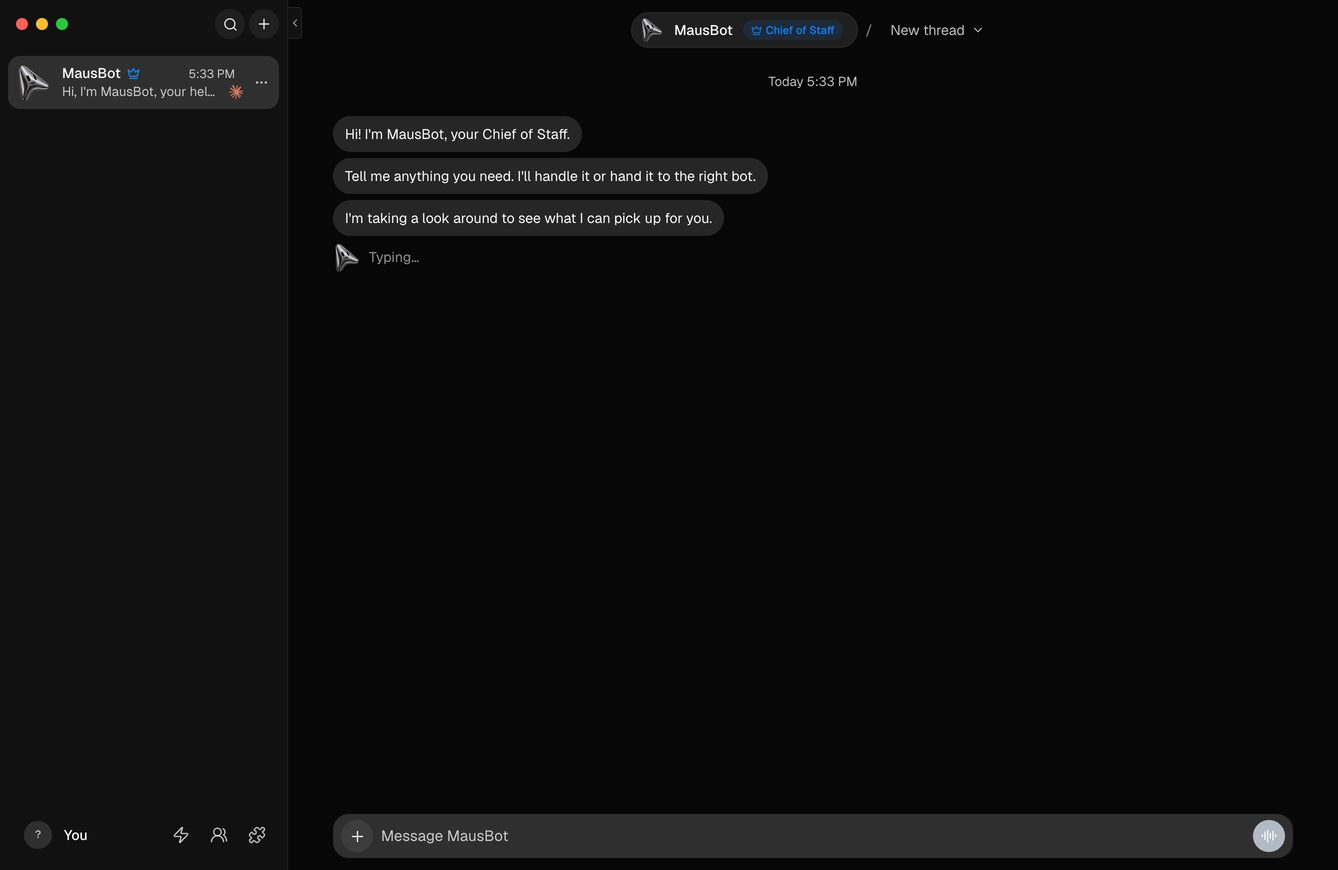
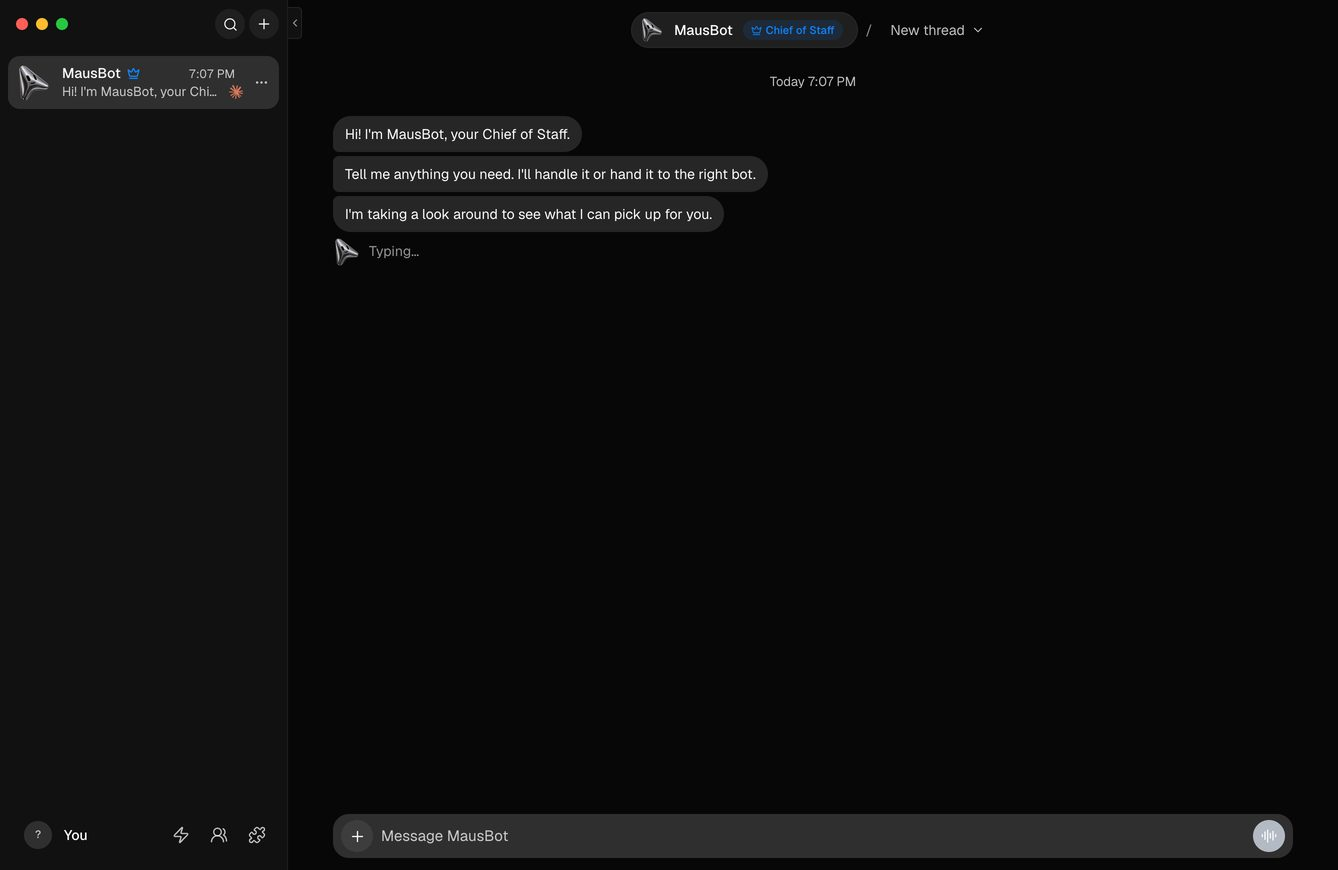
Onboarding: verification doc for two screens, shared Simple bubble, a calmer title
- docs/verification/onboarding.md describes the two-screen first run and cites
  the tests that cover it now (the deleted beat tests are gone from it).
- MausBot's intro bubbles use the chat's own Simple bubble (chat-bubble.ts:
  shape, width and joined corners) instead of their own values.
- The Meet title is 28px light, matching the size and weight of the design.

Changed region(s): [[0.2451, 0.1552, 0.5822, 0.3103], [0.5822, 0.0931, 0.6435, 0.1241], [0.1226, 0.0931, 0.1532, 0.1241]]

diff --git a/src/components/HelperIntro.tsx b/src/components/HelperIntro.tsx
@@ -9,6 +9,7 @@ import { detectSetupWithin, localSetupImport, setupImportApi } from "@/lib/setup
 import type { LocaleKey } from "@/locales";
 import { api, useStore, type Bot, type InstanceInfo, type Message } from "@/state/store";
 import { BotAvatar } from "./Avatar";
+import { joinedCorners, SIMPLE_BOT_BUBBLE, SIMPLE_BUBBLE_MAX } from "./chat-bubble";
 import { loadAppCards } from "./bot-settings/useBotApps";
 import { engineReady } from "./EngineLibrary";
 import { HelperSetup } from "./HelperSetup";
@@ -19,10 +20,8 @@ export const HELPER_ASK_KEYS: readonly LocaleKey[] = [
   "helperIntro.ask.overview", "helperIntro.ask.inbox", "helperIntro.ask.routine", "helperIntro.ask.howto",
 ];
 
-/** The bubble a bot's own words get in the chat: Simple's calmer one, or Advanced's. */
-const BUBBLE = "w-fit max-w-[min(var(--chat-bubble-max),var(--chat-bubble-pct))] bg-card text-ink";
-const SIMPLE_BUBBLE = "rounded-[18px] px-3 py-[7px] text-[14px] leading-[22px]";
-const ADVANCED_BUBBLE = "rounded-2xl px-4 py-2.5 text-[15px] leading-relaxed";
+/** Advanced mode's bot bubble; Simple's is the chat's own (chat-bubble.ts). */
+const ADVANCED_BUBBLE = "max-w-[min(var(--chat-bubble-max),var(--chat-bubble-pct))] rounded-2xl bg-card px-4 py-2.5 text-[15px] leading-relaxed text-ink";
 /** How long each bubble is "typed" before it arrives, as a first run lands in the chat. */
 export const ARRIVAL_MS: readonly number[] = [350, 800, 900, 1_500];
 const MAX_APP_NAMES = 3;
@@ -155,9 +154,18 @@ export function HelperIntro({ botId, threadId, message, answered }: { botId: str
   const visible = bubbles.slice(0, found.settled ? shown : Math.min(shown, lines.length));
   const ask = (key: LocaleKey) => dispatch({ type: "answerCard", botId, threadId, messageId: message.id, answer: t(key) });
   return (
-    <div data-helper-intro={message.id} className="flex w-full flex-col items-start gap-1.5">
+    <div data-helper-intro={message.id} className={cn("flex w-full flex-col items-start", advanced ? "gap-1.5" : "gap-1")}>
       {visible.map((text, index) => (
-        <div key={index} data-chat-bubble="" data-helper-line={index} className={cn(BUBBLE, advanced ? ADVANCED_BUBBLE : SIMPLE_BUBBLE, staged && "animate-msg-in")}>{text}</div>
+        <div
+          key={index}
+          data-chat-bubble={advanced ? "" : "simple"}
+          data-helper-line={index}
+          className={cn("w-fit", advanced ? ADVANCED_BUBBLE
+            : cn(SIMPLE_BUBBLE_MAX, SIMPLE_BOT_BUBBLE, joinedCorners("start", { above: index > 0, below: index < visible.length - 1 })),
+          staged && "animate-msg-in")}
+        >
+          {text}
+        </div>
       ))}
       {typing && bot && (
         <div role="status" data-helper-typing="" className="flex items-center gap-2 py-0.5">

diff --git a/src/components/HelperIntro.test.ts b/src/components/HelperIntro.test.ts
@@ -25,6 +25,7 @@ vi.mock("@/lib/setup-import", () => ({
 }));
 const { ARRIVAL_MS, HelperIntro, introLines, lookAroundReport } = await import("./HelperIntro");
 const { setupAction } = await import("./HelperSetup");
+const { SIMPLE_BOT_BUBBLE } = await import("./chat-bubble");
 
 (globalThis as { IS_REACT_ACT_ENVIRONMENT?: boolean }).IS_REACT_ACT_ENVIRONMENT = true;
 const claude = (ready: boolean): InstanceInfo => ({ instanceId: "claude", driverKind: "claudeAgent", displayName: "Claude",
@@ -100,6 +101,9 @@ describe("in the chat", () => {
       "I looked around. Claude is connected, and I can use Gmail. Or just hand me whatever's on your plate today.",
     ]);
     expect(steps()).toEqual(["bots", "phone", "cloud"]);
+    const first = host.querySelector<HTMLElement>('[data-helper-line="0"]')!;
+    expect(first.dataset.chatBubble, "the chat's own Simple bubble").toBe("simple");
+    expect(first.className).toContain(SIMPLE_BOT_BUBBLE);
   });
 
   it("puts connecting an AI first when none works, and leaves out a phone already paired", async () => {

diff --git a/src/components/chat-bubble.ts b/src/components/chat-bubble.ts
@@ -1,0 +1,22 @@
+import { cn } from "@/lib/cn";
+
+const SIMPLE_BUBBLE_SHAPE = "rounded-[18px] px-3 py-[7px] text-[14px] leading-[22px]";
+
+/** Simple mode's bot bubble: the one surface tone. */
+export const SIMPLE_BOT_BUBBLE = `${SIMPLE_BUBBLE_SHAPE} bg-card text-ink`;
+
+/** At most 560 wide, 80% of the column, and always 82px short of it, so a reply never meets the far edge. */
+export const SIMPLE_BUBBLE_MAX = "max-w-[min(var(--chat-bubble-max),var(--chat-bubble-pct),calc(100%-82px))]";
+
+/** Where a Simple bubble meets its group's neighbours: those corners tighten to 6px on the bubble's own side. */
+export interface BubbleJoin {
+  above: boolean;
+  below: boolean;
+}
+
+export function joinedCorners(side: "start" | "end", join: BubbleJoin): string {
+  return cn(
+    join.above && (side === "start" ? "rounded-ss-[6px]" : "rounded-se-[6px]"),
+    join.below && (side === "start" ? "rounded-es-[6px]" : "rounded-ee-[6px]"),
+  );
+}

diff --git a/src/components/onboarding/MeetScreen.tsx b/src/components/onboarding/MeetScreen.tsx
@@ -98,7 +98,7 @@ export function MeetScreen({ hosted, onNext }: { hosted: boolean; onNext: () => 
   return (
     <div className="flex min-h-full w-full flex-col items-center px-4 text-center">
       <div className="min-h-4 grow-[1.34]" />
-      <h1 id="welcome-title" className="text-[22px] font-medium leading-[26px] tracking-[-0.012em] text-ink">{t("onboarding.meet.title", { app: brand().name })}</h1>
+      <h1 id="welcome-title" className="text-[28px] font-light leading-[34px] tracking-[-0.015em] text-ink">{t("onboarding.meet.title", { app: brand().name })}</h1>
       <div className="min-h-4 grow" />
       <span className="flex shrink-0" style={{ width: MASCOT_SIZE, height: MASCOT_SIZE }}>
         {logo ? (

diff --git a/docs/verification/onboarding.md b/docs/verification/onboarding.md
@@ -24,17 +24,19 @@ first-run onboarding through the fixture-only `?onboarding=1` entry. It uses
 the real renderer and fake-engine server. No provider login, real phone
 pairing, native permissions or user workspace is involved.
 
-Assertions cover the greeting asking for a name only, a reload keeping the typed name, profile-save failure
-and retry, the one-step welcome (the fixture's Claude already works) landing in the
-chat with the first bot and no app tour (also after a reload),
-automatic starter-model selection and a successful first composer message without
-opening the model picker,
-every app tour step from Settings, persistence after reload, Settings replay, skipping
-while Next is saving, closing welcome while its save is pending, and replay on
-legacy installs with a failed-save retry. Screenshots
-are retained in `.omb-scratch/verify-evidence/onboarding/` with a PASS line for
-each workflow. Actual provider authentication and native Electron permissions
-remain covered by their separate platform recipes, not this browser fixture.
+Assertions cover the two screens: no field, step count, Back or Skip on the
+first; a reload on the second coming back to it; Create landing in the Chief's
+chat with its first messages even when the completion save fails, and the next
+browser without this one's mark seeing the welcome again and saving it (with
+`met-chief-v1`); no app tour after the welcome or a reload; automatic
+starter-model selection and a successful first composer message without opening
+the model picker; every app tour step from Settings, persistence after reload,
+Settings replay, skipping while Next is saving, closing a welcome replay while
+its save is pending, and replay on legacy installs with a failed-save retry.
+Screenshots are retained in `.omb-scratch/verify-evidence/onboarding/` with a
+PASS line for each workflow. Actual provider authentication and native Electron
+permissions remain covered by their separate platform recipes, not this browser
+fixture.
 
 Stop the launcher with Ctrl-C; it owns and removes only its disposable home.
 
@@ -62,10 +64,10 @@ What each first-run surface depends on, and how it was checked:
 
 | Who opens the app | What they get | Checked by |
 |---|---|---|
-| Desktop app, own server (full bridge, `remoteClient` present) | The same flow as before, decided without a new request | `src/components/onboarding/WelcomeGate.test.ts`; `HelloBeat`/`EnginesBeat` HTML compared byte for byte with main (no bridge) |
+| Desktop app, own server (full bridge, `remoteClient` present) | The two-screen first run, decided without a new request | `src/components/onboarding/WelcomeGate.test.ts`, `src/components/onboarding/WelcomeFlow.test.ts` |
 | Hosted workspace opened inside the desktop app (reduced bridge, no `remoteClient`) | Treated like a browser: the server is asked | `src/components/onboarding/WelcomeGate.test.ts` |
-| Packaged desktop with the organization bridge | An optional "Using OpenMausBot at work?" row on the engines beat; a signed-in Company engine counts as ready | `src/components/onboarding/beats/OrganisationRow.test.ts`, `src/components/onboarding/beats/EnginesBeat.test.ts` (fake bridge) |
-| Browser, admin of a hosted workspace | Greeting (no inputs) only | `src/components/onboarding/WelcomeGate.test.ts`, `src/components/onboarding/beats/HelloBeat.test.ts`, `src/lib/onboarding.test.ts` |
+| Packaged desktop with the organization bridge | An optional "Using OpenMausBot at work?" row under Other ways in Connect an AI; a signed-in Company engine counts as ready | `src/components/onboarding/beats/OrganisationRow.test.ts`, `src/components/onboarding/ConnectAi.test.ts` (fake bridge) |
+| Browser, admin of a hosted workspace | The first screen only, with the shared-workspace line, then the chat | `src/components/onboarding/WelcomeGate.test.ts`, `src/components/onboarding/WelcomeFlow.test.ts`, `src/lib/onboarding.test.ts` |
 | Browser, hosted member (no admin scope) | No welcome flow; one dismissible note kept in browser storage; no first-conversation spotlights | `src/components/onboarding/WelcomeGate.test.ts`, `src/components/onboarding/FirstConversationTour.test.ts` |
 | Browser, client-scope session on a server that is not hosted | Nothing new: the flow does not open itself (it could not be saved); Settings replay and spotlights as before | `src/components/onboarding/WelcomeGate.test.ts`, `src/lib/onboarding.test.ts` |
 
@@ -79,7 +81,7 @@ paired session with the server's onboarding record reset got no welcome flow.
 That run also showed the member note, which review then limited to hosted
 workspaces (the fixture is not hosted). The hosted-only rule is covered by the
 tests above, not by a rerun. In that run, "Got it" made no `/api/config`
-write, and the note stayed away after a reload. The engines beat was mounted from the Vite preview with a fake
+write, and the note stayed away after a reload. Connect an AI was mounted from the Vite preview with a fake
 `window.ogb.organization` injected before mount; it showed the row signed out,
 then connecting with the code, then connected. `begin` ran once, with the
 default Admin. Screenshots are in `.omb-scratch/verify-evidence/onboarding/`.
@@ -87,7 +89,9 @@ default Admin. Screenshots are in `.omb-scratch/verify-evidence/onboarding/`.
 Not covered here: the real Electron preload bridge and a real Admin enrolment
 (see [organization connection](organization-settings.md), not rerun for this
 change), and a real hosted tenant's browser. The hosted beat set was rendered
-from a temporary preview entry, not reached through a hosted sign-in.
+from a temporary preview entry, not reached through a hosted sign-in. The
+organization row now sits under Other ways on the first screen; its states are
+covered by the tests in the table.
 
 ## A new Cloud's welcome
 
@@ -120,12 +124,13 @@ desktop's preload bridge are not exercised here; they are covered by
 
 ## Bring what you already use (Oct 16 2026)
 
-The step after the engines beat: skills and MCP servers another AI tool keeps on
-this computer, brought in with one button. Desktop app only, and skipped when
-nothing new is found within two seconds.
+Skills and MCP servers another AI tool keeps on this computer, brought in with
+one button: in Settings → Import, and offered by MausBot's first messages as a
+"Bring in your skills" chip when its look around finds some within two seconds.
+Desktop app only.
 
 ```sh
-pnpm exec vitest run server/setup-import.test.ts server/imported-skills.test.ts server/toml-lite.test.ts server/routes/setup-import.test.ts server/setup-import.e2e.test.ts src/components/onboarding/beats/ImportBeat.test.ts src/lib/setup-import.test.ts src/lib/onboarding.test.ts
+pnpm exec vitest run server/setup-import.test.ts server/imported-skills.test.ts server/toml-lite.test.ts server/routes/setup-import.test.ts server/setup-import.e2e.test.ts src/components/ImportSettings.test.ts src/components/HelperIntro.test.ts src/lib/setup-import.test.ts
 ```
 
 Every test builds its own temporary home; none reads the real `~/.claude`,
@@ -139,45 +144,46 @@ planted home, as the desktop app runs it (`OMB_TEST_DESKTOP_OWNER_TOKEN`), check
 that a headless server (`openmausbot serve`) refuses the step, and checks that the starter bot and a bot made afterwards both
 get the skills in their turn's index, task folder links and `/name`, that a
 Claude turn with "Also use my Claude Code skills" on sees a Claude Code skill
-once, and that a bot can switch one off for itself. Screenshots of the step in
-Midnight and Daylight, at a narrow width, working, failed and with its result
-came from `onboarding-preview.html` with a fixture detection (`?beat=import`,
-`?import=notes`, `?import=fail`, `?w=390&h=760`). Not covered here: the
-packaged Electron window itself.
-
-## One short welcome, no second tour (Oct 23 2026)
-
-```sh
-pnpm exec vitest run src/lib/onboarding.test.ts src/lib/welcome-draft.test.ts src/components/onboarding src/components/AppNotices.test.ts
-```
-
-`src/lib/onboarding.test.ts` lists every step set (no reel, phone or bot step in any
-combination) and the shared count behind the dots and "Step N of M".
-`src/components/onboarding/WelcomeFlow.steps.test.ts` renders the flow in happy-dom: a double click moves
-one step and Back waits while a step changes; the dots match the counter on
-every step; a reload resumes on the saved step with the typed fields, or on the
-step before one still loading (import, Cloud) and then on it; Skip and Escape
-keep the typed name; a replay or the preview never touches the
-saved draft; Skip stays out of a long title's way. `src/components/onboarding/beats/HelloBeat.test.ts` covers the
-name-only greeting and Maybe later keeping the name typed. `src/components/onboarding/GuidedTour.test.ts`,
-`src/components/onboarding/FirstConversationTour.test.ts` and `src/components/onboarding/WelcomeGate.test.ts` check the app tour
-never starts by itself, also after a reload, and the first-conversation
-spotlights no longer wait for it.
-
-Layout was checked in `onboarding-preview.html` (`?w=375&h=667`, `?w=1920&h=1080`)
-in a browser of the same size. `verify-onboarding-ui.ts` passed end to end on a fresh
-`ui launch` fixture (Oct 23 2026). That fixture has a working AI, so it never reaches
-Connect an AI; the engines step's refresh failure is covered by
-`src/components/onboarding/beats/EnginesBeat.test.ts`, and the steps after it by
-`src/components/onboarding/WelcomeFlow.steps.test.ts`.
+once, and that a bot can switch one off for itself. The rows, working, failed
+and with their result, are covered in Settings by
+`src/components/ImportSettings.test.ts`; the chip by
+`src/components/HelperIntro.test.ts`. Not covered here: the packaged Electron
+window itself.
 
 ## Two screens, then the chat (Oct 27 2026)
 
-`scripts/verify-onboarding-ui.ts` now walks the two screens: no field, steps,
-Back or Skip on the first; a reload on the second comes back to it; Create
-lands in the Chief's chat with its first messages even when the completion save
-fails; the saved record carries `met-chief-v1`, which keeps that first
-conversation free of corner notices and spotlights until the person has had a
-reply. Before and after screenshots are in `evidence/onboarding/`. The no-AI
-first screen is shot in `onboarding-preview.html?ai=0`, since the fixture's
-fake engine always reports a signed-in account.
+```sh
+pnpm exec vitest run src/lib/onboarding.test.ts src/lib/welcome-draft.test.ts src/lib/default-bot.test.ts src/lib/corner-popup.test.ts src/components/onboarding src/components/HelperIntro.test.ts src/components/AppNotices.test.ts src/components/MausBotWelcome.gate.test.ts
+```
+
+- `src/components/onboarding/WelcomeFlow.test.ts` renders the flow in
+  happy-dom: two screens with an AI working (Next, then Create, landing in the
+  Chief's chat with its first messages staged); with none, the first screen
+  holding Connect an AI, Next held until one connects and Later moving on;
+  Escape and Enter; a reload on the second screen; a hosted admin's one screen;
+  a replay saving nothing about a first chat.
+- `src/components/onboarding/ChiefIntro.test.ts` covers Create (MausBot made the
+  Chief only where there is none, an existing Chief never replaced), Choose with
+  its radio list and Confirm (a bot whose AI cannot lead held back), Escape
+  leaving only the list, and the choice finishing in a window that runs no
+  animation frames.
+- `src/components/onboarding/ConnectAi.test.ts` covers the recommended sign-in,
+  Other ways and the failed check.
+- `src/components/HelperIntro.test.ts` covers MausBot's first messages: the
+  three bubbles, the look around, chips for only what is missing, and the
+  staged arrival.
+- `src/lib/corner-popup.test.ts` and `src/components/AppNotices.test.ts` keep
+  every corner notice out of the first conversation until a reply;
+  `src/components/onboarding/FirstConversationTour.test.ts` keeps its
+  spotlights off; `src/components/MausBotWelcome.gate.test.ts` keeps MausBot's
+  first-launch card for older installs only.
+- `src/components/onboarding/GuidedTour.test.ts` and
+  `src/components/onboarding/WelcomeGate.test.ts` check the app tour never
+  starts by itself, also after a reload.
+
+`verify-onboarding-ui.ts` passed end to end on a fresh `ui launch` fixture (Oct
+27 2026). That fixture's fake engine always reports a signed-in account, so the
+no-AI first screen, the Chief screen with bots to choose and narrow windows were
+checked in `onboarding-preview.html` (`?ai=0`, `?screen=chief&bots=3`,
+`?w=840&h=620`) in Midnight and Daylight. Before and after screenshots are in
+`evidence/onboarding/`.
